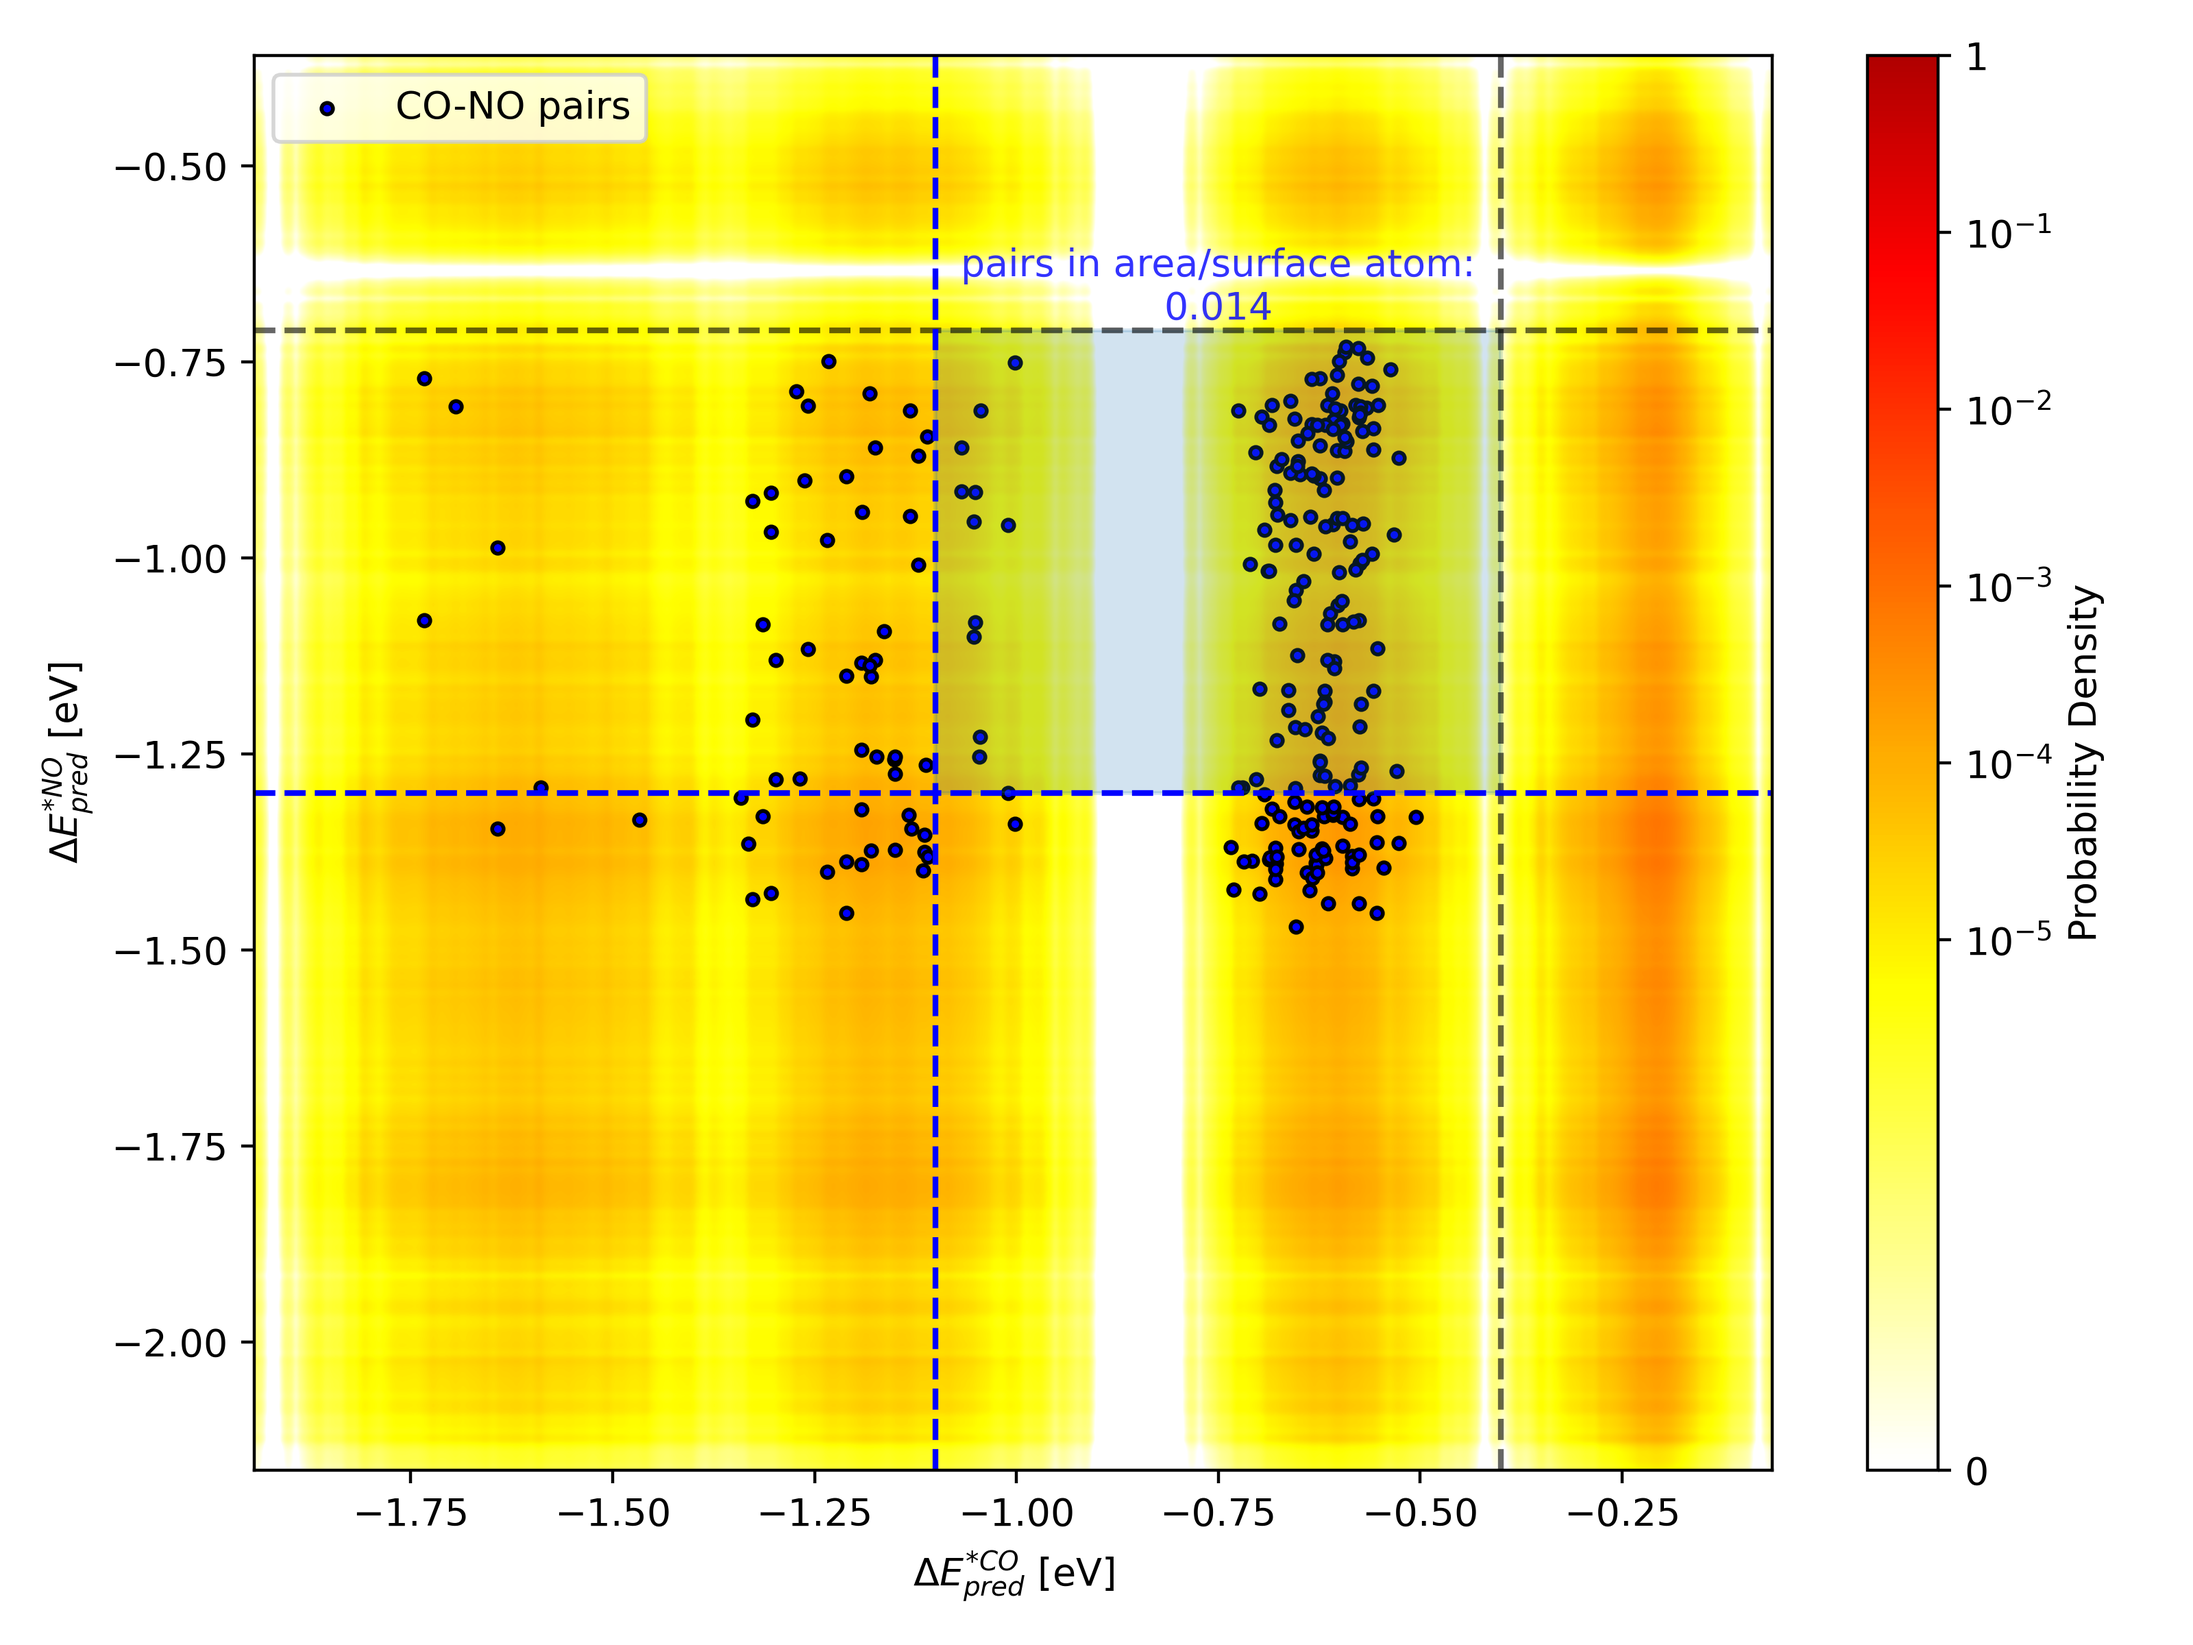
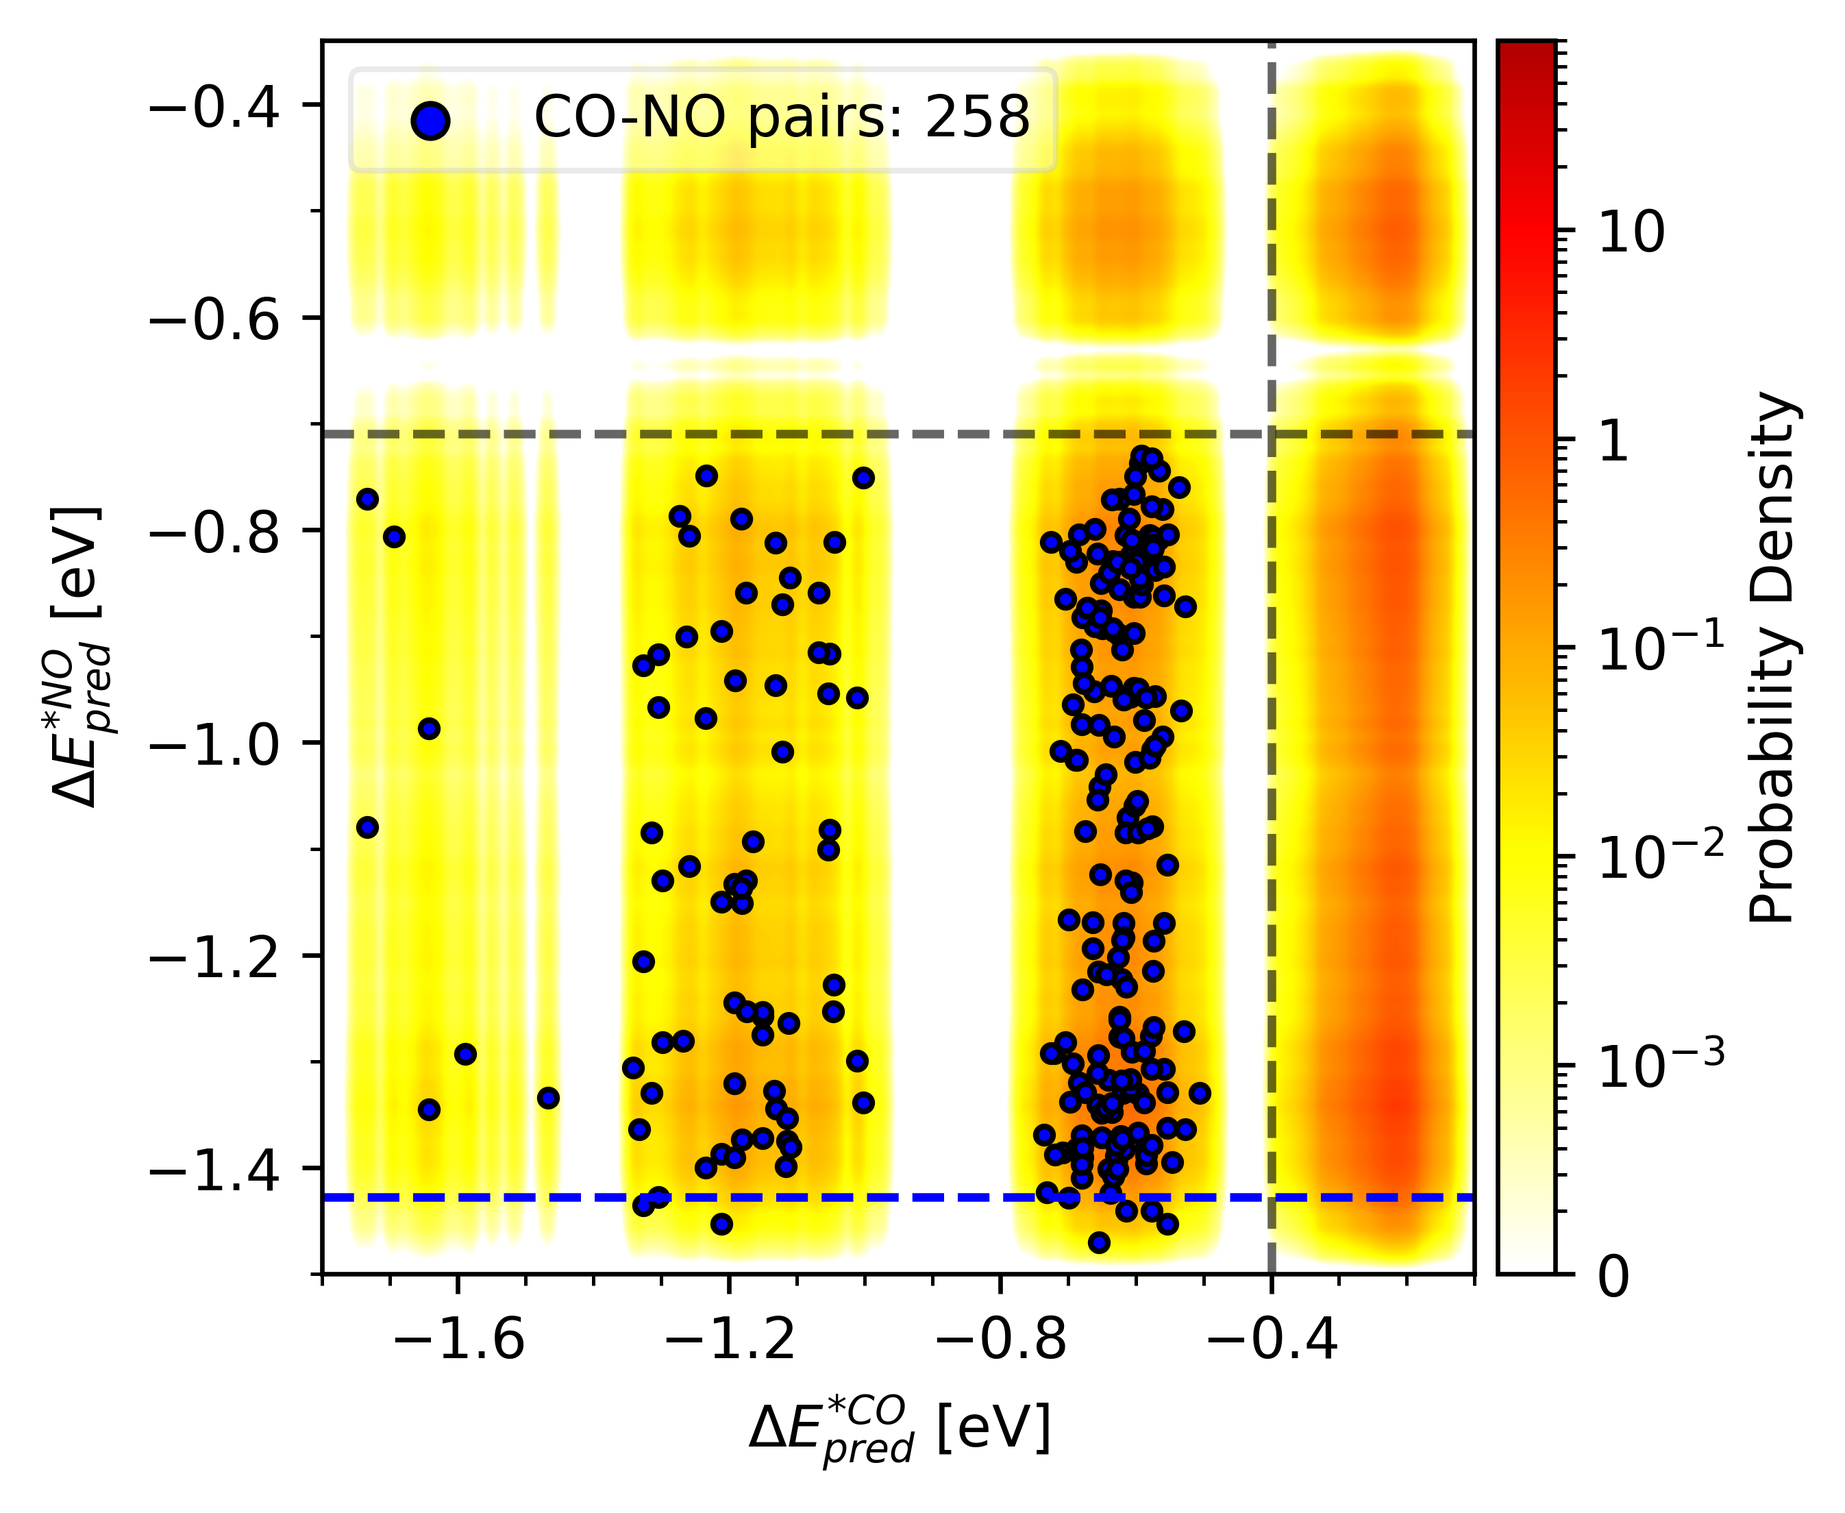
updated ads dist and pairs in E_dist plots

diff --git a/energy_distributions/net_energies.py b/energy_distributions/net_energies.py
@@ -1,5 +1,8 @@
 import numpy as np
 import matplotlib.pyplot as plt
+from matplotlib.ticker import MultipleLocator
+import matplotlib.patches as mpatch
+from mpl_toolkits.axes_grid1.inset_locator import zoomed_inset_axes, mark_inset
 from density_plot_functions import probability_density_plot
 import sys
 sys.path.append('..')
@@ -13,7 +16,7 @@ H_color = np.array([179,227,245])/255
 for method in ['eq','dyn']:
     np.random.seed(1)
     composition = np.array([0.2,0.2,0.2,0.2,0.2])
-    CO_NO_energy_pairs, CO_ads, NO_ads, H_ads, CO_energies, NO_energies, H_energies = get_sites(composition,P_CO=1,P_NO=1, metals=metals, method=method, eU=0, n=100, return_ads_energies=True)
+    CO_NO_energy_pairs, CO_ads, NO_ads, H_ads, CO_energies, NO_energies, H_energies, CO_bool, NO_bool, H_bool = get_sites(composition,P_CO=1,P_NO=1, metals=metals, method=method, eU=0, n=100, return_ads_energies=True)
 
     fig, ax = plt.subplots(figsize=(8,3))
     Emin = np.min([CO_energies,NO_energies,H_energies])
@@ -21,18 +24,69 @@ for method in ['eq','dyn']:
 
     range = (Emin,Emax)
     bins=100
-    plt.hist(CO_energies,histtype='step',label='CO',color=C_color,range=range,bins=bins,zorder=2)
-    plt.hist(NO_energies,histtype='step',label='NO',color=N_color,range=range,bins=bins,zorder=1)
-    plt.hist(H_energies[H_energies<10],histtype='step',label='H',color=H_color,range=range,bins=bins,zorder=0)
-    plt.hist(CO_ads,label='*CO',alpha=0.7,range=range,bins=bins,color=C_color,zorder=2)
-    plt.hist(NO_ads,label='*NO',alpha=0.7,range=range,bins=bins,color=N_color,zorder=1)
-    plt.hist(H_ads,label='*H',alpha=0.7,range=range,bins=bins,color=H_color,zorder=0)
-    plt.xlabel('Adsorption Gibbs Free Energies [eV]')
-    plt.ylabel('Number of Sites')
-    plt.ylim(None,550)
-    plt.legend()
+    ax.hist(CO_energies,histtype='step',label='CO',color=C_color,range=range,bins=bins,zorder=2)
+    ax.hist(NO_energies,histtype='step',label='NO',color=N_color,range=range,bins=bins,zorder=1)
+    ax.hist(H_energies[H_energies<10],histtype='step',label='H',color=H_color,range=range,bins=bins,zorder=0)
+    CO_counts, bins, patches = ax.hist(CO_ads,label='*CO',alpha=1,range=range,bins=bins,color=C_color,zorder=2)
+    ax.hist(NO_ads,label='*NO',alpha=1,range=range,bins=bins,color=N_color,zorder=1)
+    ax.hist(H_ads,label='*H',alpha=0.4,range=range,bins=bins,color=H_color,zorder=0)
+    ax.set_xlabel('Adsorption Gibbs Free Energies [eV]')
+    ax.set_ylabel('Number of Sites')
+
+    
+    ax.set_ylim(None,470)
+    ax.set_xlim(-1.55,0.1)
+    
+    ax.legend()
+
+
+    ax.xaxis.set_major_locator(MultipleLocator(0.5))
+    ax.xaxis.set_minor_locator(MultipleLocator(0.1))
+    ax.yaxis.set_major_locator(MultipleLocator(100))
+    ax.yaxis.set_minor_locator(MultipleLocator(50))
+
+
+
+    # xbins = (bins[1:] + bins[:-1])/2
+    # arrow_mask = (xbins < -1.0) * (CO_counts<=5) * (CO_counts>0)
+    
+    # x_arrow = xbins[arrow_mask]
+    # y_arrow = CO_counts[arrow_mask]
+    
+    # x_start = -1.25
+    # y_start = 25
+
+    # prop = dict(arrowstyle="-|>,head_width=0.05,head_length=0.2", shrinkA=0,shrinkB=0,color='k')
+    # for x_end,y_end in zip(x_arrow,y_arrow):
+    #     plt.annotate('',xy=(x_end,y_end),xytext=(x_end,y_start),arrowprops=prop)
+        
+    
+    # ax.add_artist(mpatch.Rectangle((min(x_arrow)-0.005,30),max(x_arrow)-min(x_arrow)+0.01,22,fill=False,edgecolor='black',linewidth=0.6,linestyle='--'))
+    # ax.text((max(x_arrow)+min(x_arrow))/2, 30,'5 or less adsorbed CO',ha='center',va='bottom',fontsize=7)
+
+
+
+
+    axins = ax.inset_axes([0.2, 0.7, 0.2, 0.2])
+    # axins = zoomed_inset_axes(ax, 5, loc=1)
+    axins.hist(CO_ads[CO_ads<=-1],range=range,bins=bins,color=C_color)
+    axins.set_xlim([-1.38,-1.05])
+    axins.set_ylim([0,4.5])
+    axins.set_yticks([])
+    axins.xaxis.set_major_locator(MultipleLocator(0.5))
+    axins.xaxis.set_minor_locator(MultipleLocator(0.1))
+    #axins.yaxis.set_major_locator(MultipleLocator(5))
+    axins.yaxis.set_minor_locator(MultipleLocator(1))
+
+
+    #axins.set_xticklabels([])
+    #axins.set_yticklabels([])
+    # ax.indicate_inset_zoom(axins, edgecolor="black")
+    mark_inset(ax, axins, loc1=2, loc2=4, fc="none", ec="black",alpha=0.3,linestyle='--')
+
+
     plt.tight_layout()
-    plt.savefig(f'adsorption_dist_{method}.png',dpi=400)
+    plt.savefig(f'adsorption_dist_{method}.png',dpi=600)
     plt.close()
 
 
@@ -49,42 +103,89 @@ for method in ['eq','dyn']:
 
 
 
-    fig,ax,(hist_x,xedges),(hist_y,yedges), prob_density = probability_density_plot(CO_energies,NO_energies,return_hists=True)
-    ax.scatter(*CO_NO_energy_pairs.T,marker='.',c='b',edgecolors='k',label='CO-NO pairs')
+    H_bool_pad = np.pad(H_bool,pad_width=((1,1),(1,1)),mode='wrap')
 
-    #integrate
-    mask_x = lambda x: (x>=(-1.1))*(x<=(-0.4))
-    mask_y = lambda y: (y>=(-1.3))*(y<=(-0.71))
+    CO_block_mask = H_bool_pad[1:-1,1:-1] + H_bool_pad[:-2,1:-1] + H_bool_pad[1:-1,:-2]
 
-    x_centers = (xedges[1:] + xedges[:-1])/2
-    y_centers = (yedges[1:] + yedges[:-1])/2
+    NO_energies = NO_energies[np.invert(H_bool).flatten()]
+    CO_energies = CO_energies[np.invert(CO_block_mask).flatten()]
 
-    x_centers_id=np.where(mask_x(x_centers))[0]
-    y_centers_id=np.where(mask_y(y_centers))[0]
 
-    prob_density_urea = np.sum(prob_density.T[y_centers_id[0]:y_centers_id[-1],x_centers_id[0]:x_centers_id[-1]])
 
-    ax.fill_between([-1.1,-0.4],[-1.3,-1.3],y2=[-0.71,-0.71],color="tab:blue",alpha=0.2)
 
-    ylim=ax.get_ylim()
-    xlim=ax.get_xlim()
+    # fig,ax,(hist_x,xedges),(hist_y,yedges), prob_density = probability_density_plot(CO_energies,NO_energies,return_hists=True)
+    
 
-    plt.plot([-0.4,-0.4],ylim,c="k",ls="--",alpha=0.6)
-    plt.plot(xlim,[-0.71,-0.71],c="k",ls="--",alpha=0.6)
+    
+    fig,ax = plt.subplots(figsize=(5,5))
+    fig.subplots_adjust(wspace=0.5)
+    ax.set_ylim(-1.5,-0.34)
+    ax.set_xlim(-1.8,-0.1)
+    
 
-    plt.plot([-1.1,-1.1],ylim,c="b",ls="--")
-    plt.plot(xlim,[-1.3,-1.3],c="b",ls="--")
+    xlim, ylim = ax.get_xlim(), ax.get_ylim()
 
-    ax.set_ylim(ylim)
-    prob=(sum(mask_x(CO_energies))/10000) * (sum(mask_y(NO_energies))/10000)
-    CO_NO_pair_mask_CO = mask_x(CO_NO_energy_pairs[:,0])
-    CO_NO_pair_mask_NO = mask_y(CO_NO_energy_pairs[:,1])
-    n_pairs_in_area = np.sum(CO_NO_pair_mask_CO * CO_NO_pair_mask_NO)
+    
 
-    ax.text((-0.4-1.1)/2,(-1.3-0.71)/2+0.35,f"pairs in area/surface atom:\n{n_pairs_in_area/10000}",c="b",alpha=0.8,ha="center",va="center")
-    ax.legend(loc=2)
-    ax.set_ylabel("\u0394$E_{pred}^{*NO}$ [eV]")
+    fig,ax,(hist_x,xedges),(hist_y,yedges), prob_density = probability_density_plot(CO_energies,NO_energies,return_hists=True,figure=(fig,ax),vmax=80)
+
+
+    ax.scatter(*CO_NO_energy_pairs.T,marker='.',c='b',edgecolors='k',label=f'CO-NO pairs: {len(CO_NO_energy_pairs)}')
+    ax.legend(loc=2, markerscale=2,framealpha=0.4)
+
+    a = 1.88
+    b = - 1.24
+
+
+
+
+    ax.vlines(-0.4, ylim[0],ylim[1],color='k',ls='--',alpha=0.6)
+    ax.hlines(-0.71, xlim[0],xlim[1],color='k',ls='--',alpha=0.6)
+    ax.hlines(a*(-0.1)+b, xlim[0],xlim[1],color='b',ls='--')
+    ax.set_xlim(*xlim)
+    ax.set_ylim(*ylim)
+
+
     ax.set_xlabel("\u0394$E_{pred}^{*CO}$ [eV]")
-    plt.tight_layout()
-    #print(prob)
-    plt.savefig(f'Energy_dist_{method}.png',dpi=400)
+    ax.set_ylabel("\u0394$E_{pred}^{*NO}$ [eV]")
+
+
+    ax.xaxis.set_major_locator(MultipleLocator(0.4))
+    ax.xaxis.set_minor_locator(MultipleLocator(0.1))
+    ax.yaxis.set_major_locator(MultipleLocator(0.2))
+    ax.yaxis.set_minor_locator(MultipleLocator(0.1))
+
+
+
+  
+
+
+    # x_centers = (xedges[1:] + xedges[:-1])/2
+    # y_centers = (yedges[1:] + yedges[:-1])/2
+
+    # x_centers_id=np.where(x_centers<=-0.4)[0]
+    # y_centers_id=np.where(y_centers<=-0.71)[0]
+
+    #prob2 = np.sum(prob_density.T[y_centers_id[0]:y_centers_id[-1]+1,x_centers_id[0]:x_centers_id[-1]+1]) * (x_centers[x_centers_id[1]]-x_centers[x_centers_id[0]]) * (y_centers[y_centers_id[1]]-y_centers[y_centers_id[0]]) 
+
+    #print(prob2)
+    # alloy_sub_list = [metals[i] + '$_{' + str(int(composition[i]*100)) + '}$' for i in range(len(metals)) if composition[i]>0]
+    # alloy_sub = ''.join(alloy_sub_list)
+    # props = dict(boxstyle='round', facecolor='white', alpha=0.3)
+    # ax.text(xlim[0]+0.05,ylim[1]-0.05,alloy_sub,ha='left',va='top',color='k',bbox=props)
+
+    # ax.text(xlim[0]+0.02,-0.73,f'$P_{{area}}$ = {probability:.4f}',ha='left',va='top',color='tab:blue')
+    # ax.fill_between([xlim[0],-0.4],ylim[0],-0.71,alpha=0.3,hatch='///',color='none',linewidth=0,edgecolor='tab:blue')
+    
+
+    #ax.set_aspect('equal')
+    #plt.tight_layout()
+    #plt.show()
+    # plt.savefig('test.png',dpi=400)
+    # break
+
+
+    fig.subplots_adjust(bottom=0.2,left=0.2,right=0.8,top=0.8)
+
+
+    plt.savefig(f'Energy_dist_{method}.png',dpi=600,bbox_inches='tight')

diff --git a/energy_distributions/energy_probability_distributions.py b/energy_distributions/energy_probability_distributions.py
@@ -142,11 +142,11 @@ for composition in compositions:
     print(probability)
 
 
-    x_centers = (xedges[1:] + xedges[:-1])/2
-    y_centers = (yedges[1:] + yedges[:-1])/2
+    # x_centers = (xedges[1:] + xedges[:-1])/2
+    # y_centers = (yedges[1:] + yedges[:-1])/2
 
-    x_centers_id=np.where(x_centers<=-0.4)[0]
-    y_centers_id=np.where(y_centers<=-0.71)[0]
+    # x_centers_id=np.where(x_centers<=-0.4)[0]
+    # y_centers_id=np.where(y_centers<=-0.71)[0]
 
     #prob2 = np.sum(prob_density.T[y_centers_id[0]:y_centers_id[-1]+1,x_centers_id[0]:x_centers_id[-1]+1]) * (x_centers[x_centers_id[1]]-x_centers[x_centers_id[0]]) * (y_centers[y_centers_id[1]]-y_centers[y_centers_id[0]]) 
 
@@ -168,6 +168,10 @@ for composition in compositions:
     fig.subplots_adjust(bottom=0.2,left=0.2,right=0.8,top=0.8)
    
     plt.savefig(f'{alloy}/{alloy}_CO_NO_energy_distribution.png',dpi=600,bbox_inches='tight')
+    break
+
+
+    
 
 
     

diff --git a/scripts/methods.py b/scripts/methods.py
@@ -79,7 +79,7 @@ def get_sites(composition,P_CO,P_NO, metals, method, eU=0, n=100, return_ads_ene
         CO_ads = CO_energy_grid[CO_coverage_bool]
         NO_ads = NO_energy_grid[NO_coverage_bool]
         H_ads = H_energy_grid[H_coverage_bool]
-        return CO_NO_energy_pairs, CO_ads, NO_ads, H_ads, CO_energy_grid.flatten(), NO_energy_grid.flatten(), H_energy_grid.flatten()
+        return CO_NO_energy_pairs, CO_ads, NO_ads, H_ads, CO_energy_grid.flatten(), NO_energy_grid.flatten(), H_energy_grid.flatten(), CO_coverage_bool, NO_coverage_bool, H_coverage_bool
     else:
         return CO_NO_energy_pairs
 
